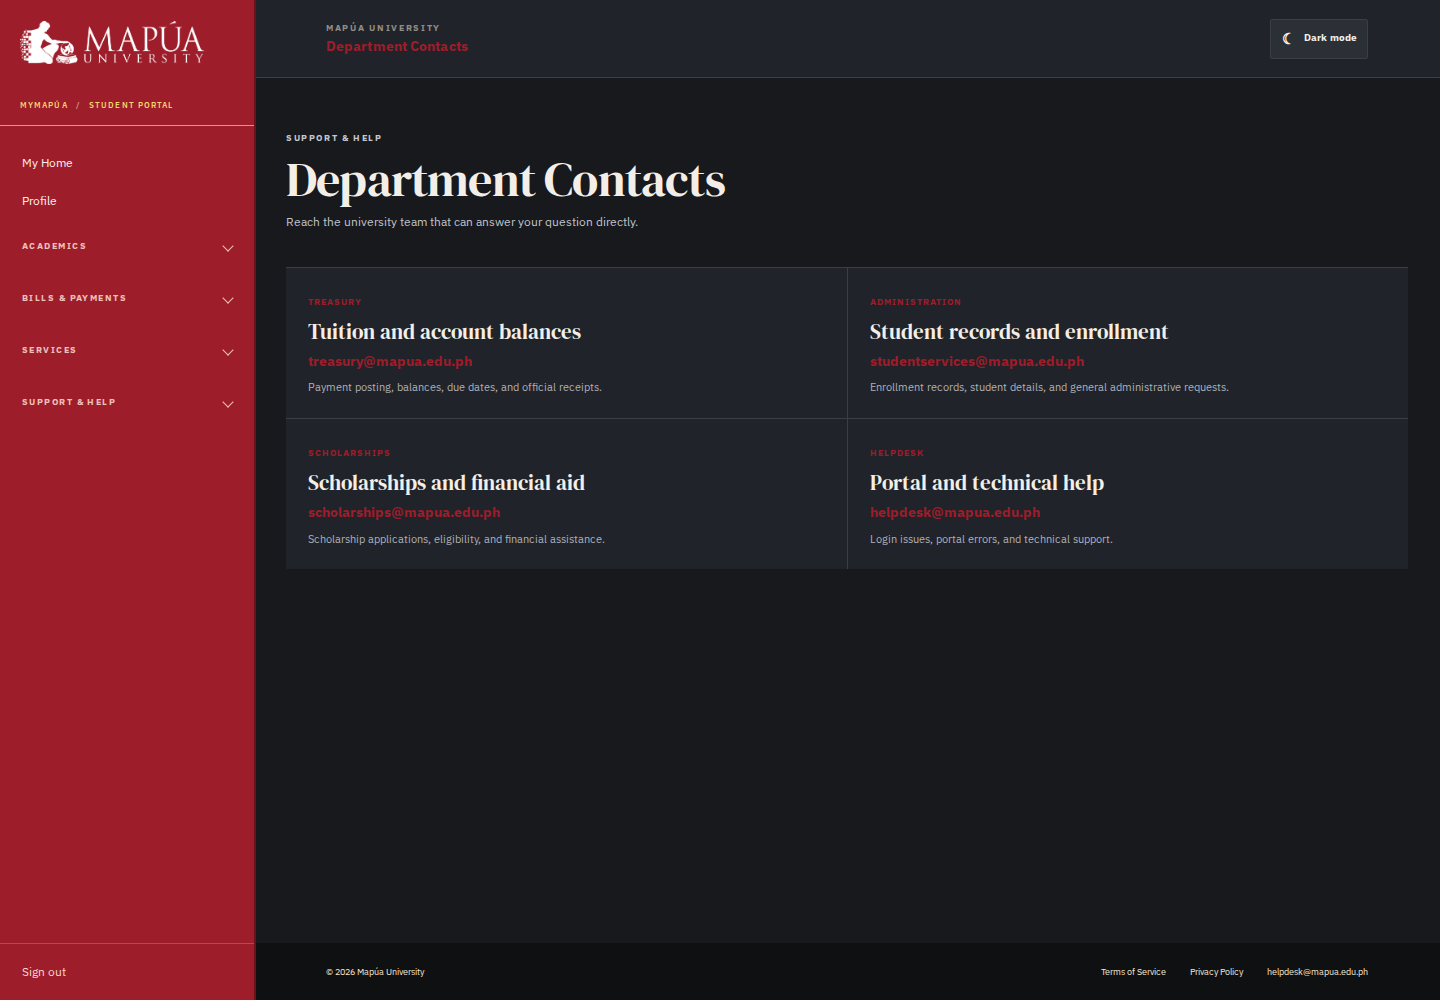
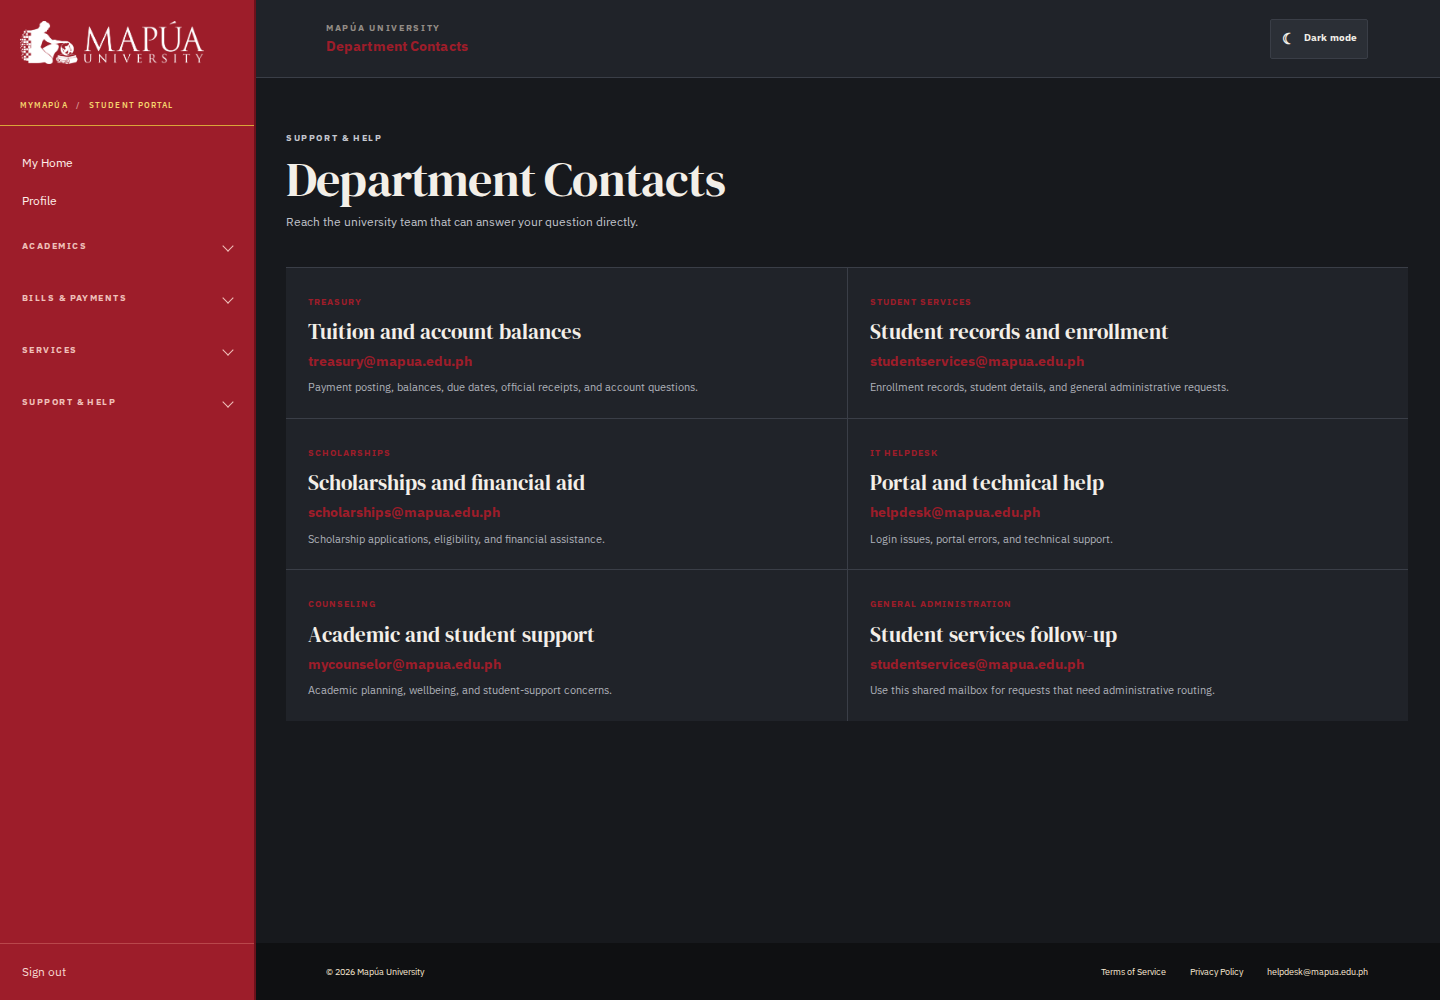
expand support contacts and exports

diff --git a/script.js b/script.js
@@ -200,6 +200,14 @@ const downloadableFormRows = [
 const downloadableFormsMarkup = `<div class="download-list">${downloadableFormRows.map(([title, description]) => `<div><section><strong>${title}</strong><small>${description}</small></section><button class="quiet-button" data-toast="Download prepared.">Download</button></div>`).join('')}</div>`;
 pageData['#forms'][2] = pageData['#forms'][2].replace(/<div class="download-list">[\s\S]*?<\/div><\/section><\/div>$/, `${downloadableFormsMarkup}</section></div>`);
 
+pageData['#faqs'][2] = '<div class="faq-list"><details open><summary>How do I request an academic document?</summary><p>Open Documents &amp; Forms, choose the record you need, and select Request document. Keep your student number ready if the helpdesk asks for it.</p></details><details><summary>Where can I view my current balance?</summary><p>Open Statement of Account under Bills &amp; Payments. The current charge, due date, payment options, and selected total are shown there.</p></details><details><summary>How do I print my GSA or certificate?</summary><p>Open Print GSA or E-CM and select the print action. Your browser print dialog will open so you can choose a printer or save the page as a PDF.</p></details><details><summary>How do I check my grades?</summary><p>Open My Grades under Academics. Use the school-year selector and term tabs to review current and previous records.</p></details><details><summary>How do I view my curriculum?</summary><p>Open My Curriculum to switch between core courses, electives, and specialization. Previous academic years can be selected from the academic-year menu.</p></details><details><summary>How do I export my schedule?</summary><p>Open My Schedule, select Export schedule, then choose PDF, image, or CSV. CSV is useful for moving the timetable into a spreadsheet.</p></details><details><summary>Why does my schedule look different on mobile?</summary><p>Mobile starts in a focused day view to keep classes readable. Select Full view to open the complete weekly timetable.</p></details><details><summary>Which email should I use for portal problems?</summary><p>Use helpdesk@mapua.edu.ph for login, portal, and technical problems. Include the page name and a screenshot when possible.</p></details><details><summary>How do I update my profile?</summary><p>Open Profile, update the available fields, and select Save changes. Read-only student-record fields are controlled by the university.</p></details><details><summary>What should I do if an email address is not accepted?</summary><p>Sign-in is limited to your @mymail.mapua.edu.ph or @mapua.edu.ph account. Check the spelling and use your official university address.</p></details></div>';
+pageData['#department-contacts'][2] = '<div class="department-contact-list"><article><span class="department-contact-type">TREASURY</span><h2>Tuition and account balances</h2><a href="mailto:treasury@mapua.edu.ph">treasury@mapua.edu.ph</a><p>Payment posting, balances, due dates, official receipts, and account questions.</p></article><article><span class="department-contact-type">STUDENT SERVICES</span><h2>Student records and enrollment</h2><a href="mailto:studentservices@mapua.edu.ph">studentservices@mapua.edu.ph</a><p>Enrollment records, student details, and general administrative requests.</p></article><article><span class="department-contact-type">SCHOLARSHIPS</span><h2>Scholarships and financial aid</h2><a href="mailto:scholarships@mapua.edu.ph">scholarships@mapua.edu.ph</a><p>Scholarship applications, eligibility, and financial assistance.</p></article><article><span class="department-contact-type">IT HELPDESK</span><h2>Portal and technical help</h2><a href="mailto:helpdesk@mapua.edu.ph">helpdesk@mapua.edu.ph</a><p>Login issues, portal errors, and technical support.</p></article><article><span class="department-contact-type">COUNSELING</span><h2>Academic and student support</h2><a href="mailto:mycounselor@mapua.edu.ph">mycounselor@mapua.edu.ph</a><p>Academic planning, wellbeing, and student-support concerns.</p></article><article><span class="department-contact-type">GENERAL ADMINISTRATION</span><h2>Student services follow-up</h2><a href="mailto:studentservices@mapua.edu.ph">studentservices@mapua.edu.ph</a><p>Use this shared mailbox for requests that need administrative routing.</p></article></div>';
+['#gsa', '#soa', '#payments', '#ecm'].forEach((key) => {
+  pageData[key][2] = pageData[key][2].replace(/data-toast="([^"]*print[^"]*)"/gi, 'data-print-page="true" data-toast="$1"');
+});
+pageData['#soa'][2] = pageData['#soa'][2].replace('</button></div><table>', '</button><button class="quiet-button" type="button" data-export-table="soa">Export CSV</button></div><table>');
+pageData['#payments'][2] = pageData['#payments'][2].replace('</button></div><table class="payment-history-table">', '</button><button class="quiet-button" type="button" data-export-table="payments">Export CSV</button></div><table class="payment-history-table">');
+
 const curriculumTabs = {
   'Core Courses': coreCourseTerms(),
   Electives: curriculumTermTable('Electives', [['CSS171-1','Graphics and Visual Computing','4.5','-','3','CSS123P'],['CSS172-1','Pattern Recognition','4.5','-','3','CSS123P'],['ECE176-1','Introduction to Game Programming','4.5','-','3','CSS123P'],['ITS171-1','Fundamentals of SAP','4.5','-','3','ITS131P'],['ITS175-1','Cloud Computing','4.5','-','3','CSS123P']], ['22.5','0','15'], 3, '1', 'Electives'),
@@ -356,6 +364,19 @@ function downloadBlob(blob, filename) {
   window.setTimeout(() => URL.revokeObjectURL(link.href), 1000);
 }
 
+function printCurrentPage() {
+  window.print();
+}
+function csvValue(value) {
+  return `"${String(value).replace(/"/g, '""')}"`;
+}
+function exportTableCsv(table, filename) {
+  const rows = [...table.querySelectorAll('tr')].map((row) => [...row.cells].map((cell) => cell.textContent.replace(/\s+/g, ' ').trim()));
+  const csv = rows.map((row) => row.map(csvValue).join(',')).join('\n');
+  downloadBlob(new Blob([csv], { type: 'text/csv;charset=utf-8' }), filename);
+  showToast('CSV export downloaded.');
+}
+
 async function renderScheduleCanvas() {
   const source = document.querySelector('.weekly-schedule');
   if (!source || typeof window.html2canvas !== 'function') throw new Error('Schedule export is unavailable.');
@@ -501,7 +522,15 @@ function bindActions() {
     link.addEventListener('click', () => document.querySelector('#sidebar')?.classList.remove('open'));
     supportGroup.append(link);
   }
-  document.querySelectorAll('[data-toast]').forEach((button) => button.addEventListener('click', () => showToast(button.dataset.toast)));
+  document.querySelectorAll('[data-print-page]').forEach((button) => button.addEventListener('click', printCurrentPage));
+  document.querySelectorAll('[data-export-table]').forEach((button) => button.addEventListener('click', () => {
+    const table = button.closest('.table-card')?.querySelector('table');
+    if (!table) return;
+    exportTableCsv(table, `${button.dataset.exportTable || 'mymapua-table'}.csv`);
+  }));
+  document.querySelectorAll('[data-toast]').forEach((button) => button.addEventListener('click', () => {
+    if (!button.dataset.printPage) showToast(button.dataset.toast);
+  }));
   document.querySelectorAll('[data-view-statement]').forEach((link) => link.addEventListener('click', (event) => {
     event.preventDefault();
     window.location.hash = '#soa';

diff --git a/styles.css b/styles.css
@@ -1671,6 +1671,56 @@ html[data-theme="dark"] .content .announcement-item h3 {
 	}
 }
 
+@media print {
+	* {
+		color: #000 !important;
+		background: #fff !important;
+		box-shadow: none !important;
+	}
+
+	.auth-gate,
+	.sidebar,
+	.sidebar-scrim,
+	.topbar,
+	.footer,
+	.toast,
+	.page-heading .intro,
+	.table-actions,
+	.primary-button,
+	.quiet-button,
+	.schedule-toolbar,
+	.mobile-schedule-controls {
+		display: none !important;
+	}
+
+	.app-shell,
+	.main-wrap,
+	.content {
+		display: block !important;
+		width: 100% !important;
+		max-width: none !important;
+		min-height: 0 !important;
+		margin: 0 !important;
+		padding: 0 !important;
+	}
+
+	.content .page-heading {
+		margin: 0 0 18px !important;
+	}
+
+	.content table {
+		width: 100% !important;
+		min-width: 0 !important;
+		border-collapse: collapse !important;
+	}
+
+	.content th,
+	.content td {
+		border: 1px solid #999 !important;
+		padding: 7px !important;
+	}
+}
+
 /* Authoritative Home arrow treatment: one geometric chevron, no text fallback. */
 .content .text-link span,
 .content .item-arrow,
